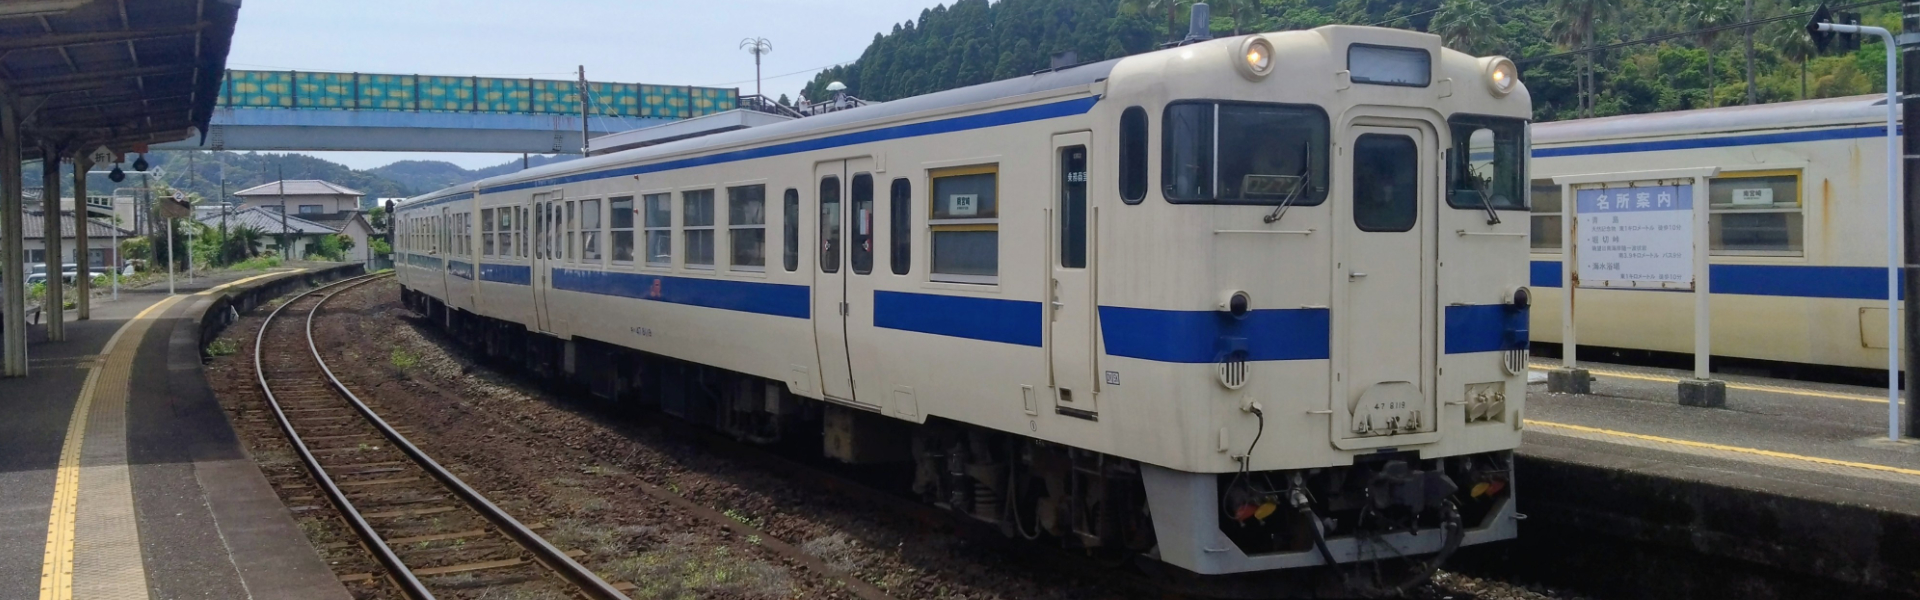
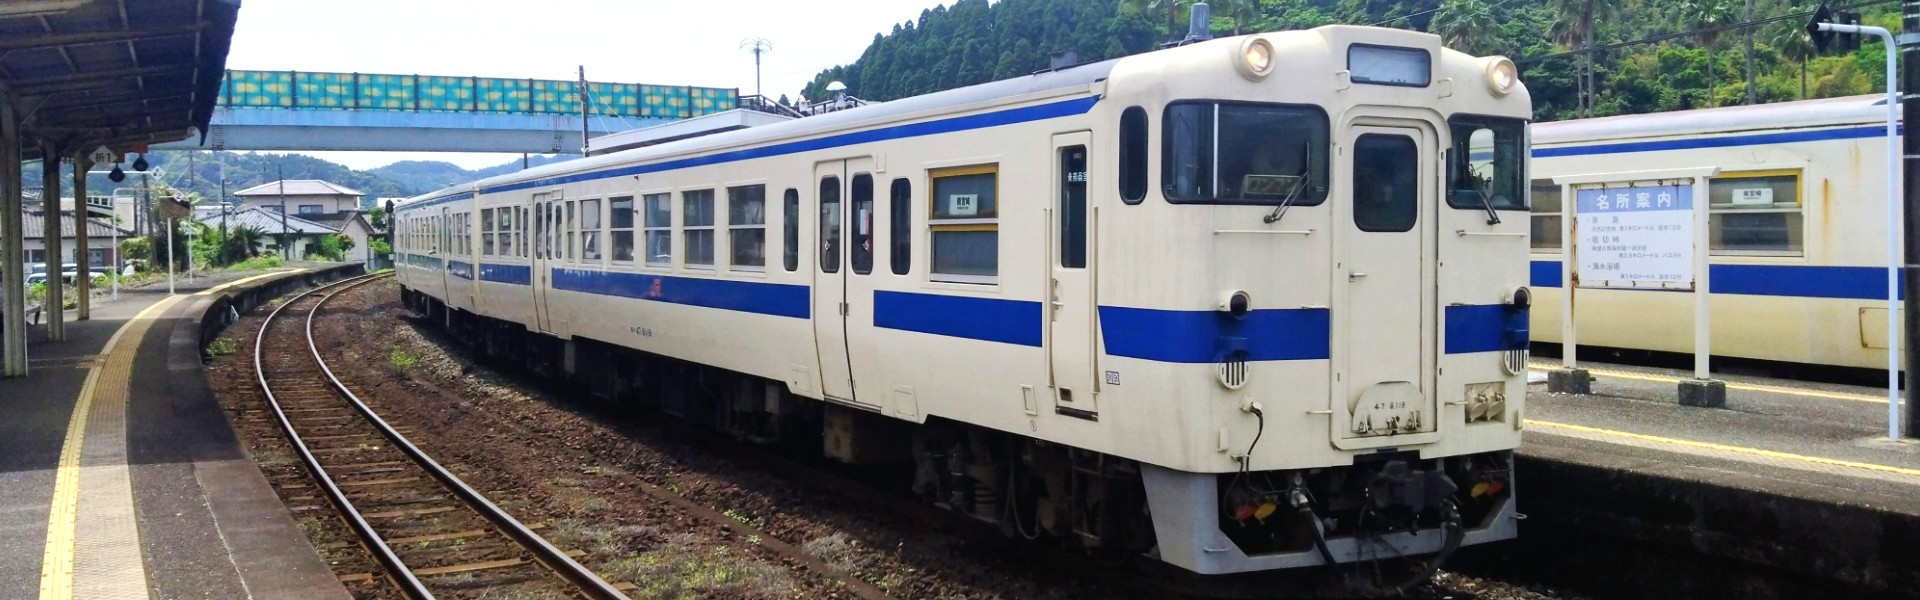
data added

diff --git a/docs/2_minamimiyazaki_c/1991.html b/docs/2_minamimiyazaki_c/1991.html
@@ -1,0 +1,102 @@
+<!DOCTYPE html>
+<html lang="ja">
+
+<head>
+    <meta charset="UTF-8">
+    <meta name="viewport" content="width=device-width, initial-scale=1.0">
+    <title>宮崎時刻表</title>
+    <link href="../css/style.css" rel="stylesheet" type="text/css" media="all">
+</head>
+
+<body>
+    <div style="text-align: center;"><p><b>日南線　南宮崎駅　時刻表</b><br>1996年3月16日改正</p></div>
+<div style="text-align: center;">
+<select onchange="if(this.value) location.href=this.value;">
+<option value="">他の年の時刻表を見る</option>
+<option value="../2_minamimiyazaki_c/1991.html">1991</option>
+<option value="../2_minamimiyazaki_c/2026.html">2026</option>
+</select>
+<br></div><table class="timetable"><thead><tr><th>時</th><th>油津・志布志方面</th></tr></thead><tr>
+<td class="hour">5</td>
+<td class="minutes">
+<span class="time-item "><span class="num">54</span><span class="labels"><span class="type"></span><span class="dest">志布志</span></span></span></td></tr>
+<tr>
+<td class="hour">7</td>
+<td class="minutes">
+<span class="time-item "><span class="num">03</span><span class="labels"><span class="type"></span><span class="dest">志布志</span></span></span></td></tr>
+<tr>
+<td class="hour">8</td>
+<td class="minutes">
+<span class="time-item "><span class="num">04</span><span class="labels"><span class="type"></span><span class="dest">青島</span></span></span></td></tr>
+<tr>
+<td class="hour">9</td>
+<td class="minutes">
+<span class="time-item "><span class="num">12</span><span class="labels"><span class="type"></span><span class="dest">志布志</span></span></span><span class="time-item "><span class="num">31</span><span class="labels"><span class="type"></span><span class="dest">青島</span></span></span></td></tr>
+<tr>
+<td class="hour">10</td>
+<td class="minutes">
+<span class="time-item "><span class="num">07</span><span class="labels"><span class="type"></span><span class="dest">青島</span></span></span><span class="time-item "><span class="num">40</span><span class="labels"><span class="type"></span><span class="dest">志布志</span></span></span></td></tr>
+<tr>
+<td class="hour">12</td>
+<td class="minutes">
+<span class="time-item rapid"><span class="num">15</span><span class="labels"><span class="type">快速日南マリーン号</span><span class="dest">志布志</span></span></span></td></tr>
+<tr>
+<td class="hour">13</td>
+<td class="minutes">
+<span class="time-item "><span class="num">09</span><span class="labels"><span class="type"></span><span class="dest">志布志</span></span></span></td></tr>
+<tr>
+<td class="hour">14</td>
+<td class="minutes">
+<span class="time-item "><span class="num">04</span><span class="labels"><span class="type"></span><span class="dest">青島★</span></span></span></td></tr>
+<tr>
+<td class="hour">15</td>
+<td class="minutes">
+<span class="time-item "><span class="num">07</span><span class="labels"><span class="type"></span><span class="dest">志布志</span></span></span><span class="time-item "><span class="num">28</span><span class="labels"><span class="type"></span><span class="dest">青島★</span></span></span></td></tr>
+<tr>
+<td class="hour">16</td>
+<td class="minutes">
+<span class="time-item "><span class="num">05</span><span class="labels"><span class="type"></span><span class="dest">油津</span></span></span></td></tr>
+<tr>
+<td class="hour">17</td>
+<td class="minutes">
+<span class="time-item "><span class="num">01</span><span class="labels"><span class="type"></span><span class="dest">志布志</span></span></span><span class="time-item "><span class="num">58</span><span class="labels"><span class="type"></span><span class="dest">志布志</span></span></span></td></tr>
+<tr>
+<td class="hour">18</td>
+<td class="minutes">
+<span class="time-item "><span class="num">56</span><span class="labels"><span class="type"></span><span class="dest">志布志</span></span></span></td></tr>
+<tr>
+<td class="hour">20</td>
+<td class="minutes">
+<span class="time-item "><span class="num">24</span><span class="labels"><span class="type"></span><span class="dest">志布志</span></span></span></td></tr>
+<tr>
+<td class="hour">21</td>
+<td class="minutes">
+<span class="time-item "><span class="num">33</span><span class="labels"><span class="type"></span><span class="dest">油津</span></span></span></td></tr>
+<tr><td colspan="2">
+<table class="legends"><thead><tr><th>備考</th><tr></thead><tbody>
+<tr><td>★</td><td>当駅始発</td></tr>
+<tr><td>※</td><td>運転日注意</td></tr>
+<tr><td>(志)</td><td>終点で普通志布志行きに接続</td></tr>
+</tbody></table></td></tr></table>
+     <div style="text-align: center;">
+    <p>
+         <b>掲載駅リスト</b>
+<h4>日豊本線<h4>
+<a href="../1_miyazaki_a/2026.html">宮崎駅 （上り）延岡・佐伯方面</a><br><br>
+<a href="../1_miyazaki_b/2026.html">宮崎駅 （下り）都城・鹿児島中央方面</a><br><br>
+<a href="../1_nobeoka_a/2026.html">延岡駅 （上り）佐伯・大分方面</a><br><br>
+<h4>日南線<h4>
+<a href="../2_minamimiyazaki_c/2026.html">南宮崎駅 （下り）油津・志布志方面</a><br><br>
+<h4>吉都線<h4>
+<a href="../3_kitto/2026.html">都城駅 （下り）小林・吉松方面</a><br><br>
+<h4>高千穂鉄道<h4>
+<a href="../9_nobeoka_c/2006.html">延岡駅 高千穂方面</a><br><br>
+
+    </p>
+    <p>
+        <a href="../index.html">ホームに戻る </a>　
+    </p> 
+    </div>
+</body>
+
+</html>

diff --git a/docs/1_nobeoka_a/1991.html b/docs/1_nobeoka_a/1991.html
@@ -1,0 +1,91 @@
+<!DOCTYPE html>
+<html lang="ja">
+
+<head>
+    <meta charset="UTF-8">
+    <meta name="viewport" content="width=device-width, initial-scale=1.0">
+    <title>宮崎時刻表</title>
+    <link href="../css/style.css" rel="stylesheet" type="text/css" media="all">
+</head>
+
+<body>
+    <div style="text-align: center;"><p><b>日豊本線　延岡駅　時刻表</b><br>1991年3月16日改正</p></div>
+<div style="text-align: center;">
+<select onchange="if(this.value) location.href=this.value;">
+<option value="">他の年の時刻表を見る</option>
+<option value="../1_nobeoka_a/1991.html">1991</option>
+<option value="../1_nobeoka_a/2026.html">2026</option>
+</select>
+<br></div><table class="timetable"><thead><tr><th>時</th><th>佐伯・大分方面</th></tr></thead><tr>
+<td class="hour">6</td>
+<td class="minutes">
+<span class="time-item "><span class="num">10</span><span class="labels"><span class="type"></span><span class="dest">日出</span></span></span><span class="time-item express"><span class="num">32</span><span class="labels"><span class="type">にちりん10</span><span class="dest">博多</span></span></span></td></tr>
+<tr>
+<td class="hour">7</td>
+<td class="minutes">
+<span class="time-item express"><span class="num">50</span><span class="labels"><span class="type">にちりん16</span><span class="dest">小倉</span></span></span><span class="time-item "><span class="num">53</span><span class="labels"><span class="type"></span><span class="dest">杵築</span></span></span></td></tr>
+<tr>
+<td class="hour">9</td>
+<td class="minutes">
+<span class="time-item express"><span class="num">53</span><span class="labels"><span class="type">にちりん24</span><span class="dest">小倉</span></span></span></td></tr>
+<tr>
+<td class="hour">11</td>
+<td class="minutes">
+<span class="time-item express"><span class="num">00</span><span class="labels"><span class="type">にちりん28</span><span class="dest">博多</span></span></span></td></tr>
+<tr>
+<td class="hour">12</td>
+<td class="minutes">
+<span class="time-item express"><span class="num">59</span><span class="labels"><span class="type">にちりん36</span><span class="dest">博多</span></span></span></td></tr>
+<tr>
+<td class="hour">13</td>
+<td class="minutes">
+<span class="time-item "><span class="num">26</span><span class="labels"><span class="type"></span><span class="dest">大分★</span></span></span></td></tr>
+<tr>
+<td class="hour">14</td>
+<td class="minutes">
+<span class="time-item express"><span class="num">45</span><span class="labels"><span class="type">富士</span><span class="dest">東京</span></span></span></td></tr>
+<tr>
+<td class="hour">15</td>
+<td class="minutes">
+<span class="time-item express"><span class="num">50</span><span class="labels"><span class="type">にちりん46</span><span class="dest">博多</span></span></span></td></tr>
+<tr>
+<td class="hour">16</td>
+<td class="minutes">
+<span class="time-item "><span class="num">28</span><span class="labels"><span class="type"></span><span class="dest">中山香</span></span></span></td></tr>
+<tr>
+<td class="hour">18</td>
+<td class="minutes">
+<span class="time-item express"><span class="num">10</span><span class="labels"><span class="type">にちりん54</span><span class="dest">博多</span></span></span><span class="time-item express"><span class="num">56</span><span class="labels"><span class="type">彗星</span><span class="dest">新大阪</span></span></span></td></tr>
+<tr>
+<td class="hour">19</td>
+<td class="minutes">
+<span class="time-item "><span class="num">04</span><span class="labels"><span class="type"></span><span class="dest">日出</span></span></span><span class="time-item express"><span class="num">53</span><span class="labels"><span class="type">にちりん56</span><span class="dest">小倉</span></span></span></td></tr>
+<tr>
+<td class="hour">0</td>
+<td class="minutes">
+<span class="time-item express"><span class="num">41</span><span class="labels"><span class="type">急行日南</span><span class="dest">博多</span></span></span></td></tr>
+<tr><td colspan="2">
+<table class="legends"><thead><tr><th>備考</th><tr></thead><tbody>
+</tbody></table></td></tr></table>
+     <div style="text-align: center;">
+    <p>
+         <b>掲載駅リスト</b>
+<h4>日豊本線<h4>
+<a href="../1_miyazaki_a/2026.html">宮崎駅 （上り）延岡・佐伯方面</a><br><br>
+<a href="../1_miyazaki_b/2026.html">宮崎駅 （下り）都城・鹿児島中央方面</a><br><br>
+<a href="../1_nobeoka_a/2026.html">延岡駅 （上り）佐伯・大分方面</a><br><br>
+<h4>日南線<h4>
+<a href="../2_minamimiyazaki_c/2026.html">南宮崎駅 （下り）油津・志布志方面</a><br><br>
+<h4>吉都線<h4>
+<a href="../3_kitto/2026.html">都城駅 （下り）小林・吉松方面</a><br><br>
+<h4>高千穂鉄道<h4>
+<a href="../9_nobeoka_c/2006.html">延岡駅 高千穂方面</a><br><br>
+
+    </p>
+    <p>
+        <a href="../index.html">ホームに戻る </a>　
+    </p> 
+    </div>
+</body>
+
+</html>

diff --git a/docs/9_nobeoka_c/1991.html b/docs/9_nobeoka_c/1991.html
@@ -1,0 +1,96 @@
+<!DOCTYPE html>
+<html lang="ja">
+
+<head>
+    <meta charset="UTF-8">
+    <meta name="viewport" content="width=device-width, initial-scale=1.0">
+    <title>宮崎時刻表</title>
+    <link href="../css/style.css" rel="stylesheet" type="text/css" media="all">
+</head>
+
+<body>
+    <div style="text-align: center;"><p><b>高千穂鉄道　延岡駅　時刻表</b><br>1991年3月16日現在改正</p></div>
+<div style="text-align: center;">
+<select onchange="if(this.value) location.href=this.value;">
+<option value="">他の年の時刻表を見る</option>
+<option value="../9_nobeoka_c/1991.html">1991</option>
+<option value="../9_nobeoka_c/2006.html">2006</option>
+</select>
+<br></div><table class="timetable"><thead><tr><th>時</th><th>高千穂方面</th></tr></thead><tr>
+<td class="hour">6</td>
+<td class="minutes">
+<span class="time-item "><span class="num">30</span><span class="labels"><span class="type"></span><span class="dest">高千穂</span></span></span></td></tr>
+<tr>
+<td class="hour">7</td>
+<td class="minutes">
+<span class="time-item rapid"><span class="num">50</span><span class="labels"><span class="type">快速</span><span class="dest">高千穂</span></span></span></td></tr>
+<tr>
+<td class="hour">8</td>
+<td class="minutes">
+<span class="time-item "><span class="num">52</span><span class="labels"><span class="type"></span><span class="dest">高千穂</span></span></span></td></tr>
+<tr>
+<td class="hour">10</td>
+<td class="minutes">
+<span class="time-item "><span class="num">04</span><span class="labels"><span class="type"></span><span class="dest">高千穂</span></span></span></td></tr>
+<tr>
+<td class="hour">11</td>
+<td class="minutes">
+<span class="time-item "><span class="num">10</span><span class="labels"><span class="type"></span><span class="dest">高千穂</span></span></span></td></tr>
+<tr>
+<td class="hour">12</td>
+<td class="minutes">
+<span class="time-item rapid"><span class="num">35</span><span class="labels"><span class="type">快速</span><span class="dest">高千穂</span></span></span></td></tr>
+<tr>
+<td class="hour">13</td>
+<td class="minutes">
+<span class="time-item "><span class="num">39</span><span class="labels"><span class="type"></span><span class="dest">高千穂</span></span></span></td></tr>
+<tr>
+<td class="hour">14</td>
+<td class="minutes">
+<span class="time-item "><span class="num">45</span><span class="labels"><span class="type"></span><span class="dest">高千穂</span></span></span></td></tr>
+<tr>
+<td class="hour">15</td>
+<td class="minutes">
+<span class="time-item "><span class="num">56</span><span class="labels"><span class="type"></span><span class="dest">高千穂</span></span></span></td></tr>
+<tr>
+<td class="hour">17</td>
+<td class="minutes">
+<span class="time-item "><span class="num">07</span><span class="labels"><span class="type"></span><span class="dest">高千穂</span></span></span></td></tr>
+<tr>
+<td class="hour">18</td>
+<td class="minutes">
+<span class="time-item "><span class="num">13</span><span class="labels"><span class="type"></span><span class="dest">高千穂</span></span></span></td></tr>
+<tr>
+<td class="hour">19</td>
+<td class="minutes">
+<span class="time-item "><span class="num">27</span><span class="labels"><span class="type"></span><span class="dest">高千穂</span></span></span></td></tr>
+<tr>
+<td class="hour">20</td>
+<td class="minutes">
+<span class="time-item "><span class="num">38</span><span class="labels"><span class="type"></span><span class="dest">高千穂</span></span></span></td></tr>
+<tr><td colspan="2">
+<table class="legends"><thead><tr><th>備考</th><tr></thead><tbody>
+<tr><td>注記</td><td>快速の停車駅は、西延岡、曽木、川水流、上崎、槇峰、日向八戸、高千穂。</td></tr>
+</tbody></table></td></tr></table>
+     <div style="text-align: center;">
+    <p>
+         <b>掲載駅リスト</b>
+<h4>日豊本線<h4>
+<a href="../1_miyazaki_a/2026.html">宮崎駅 （上り）延岡・佐伯方面</a><br><br>
+<a href="../1_miyazaki_b/2026.html">宮崎駅 （下り）都城・鹿児島中央方面</a><br><br>
+<a href="../1_nobeoka_a/2026.html">延岡駅 （上り）佐伯・大分方面</a><br><br>
+<h4>日南線<h4>
+<a href="../2_minamimiyazaki_c/2026.html">南宮崎駅 （下り）油津・志布志方面</a><br><br>
+<h4>吉都線<h4>
+<a href="../3_kitto/2026.html">都城駅 （下り）小林・吉松方面</a><br><br>
+<h4>高千穂鉄道<h4>
+<a href="../9_nobeoka_c/2006.html">延岡駅 高千穂方面</a><br><br>
+
+    </p>
+    <p>
+        <a href="../index.html">ホームに戻る </a>　
+    </p> 
+    </div>
+</body>
+
+</html>

diff --git a/docs/2_minamimiyazaki_c/2026.html b/docs/2_minamimiyazaki_c/2026.html
@@ -13,6 +13,7 @@
 <div style="text-align: center;">
 <select onchange="if(this.value) location.href=this.value;">
 <option value="">他の年の時刻表を見る</option>
+<option value="../2_minamimiyazaki_c/1991.html">1991</option>
 <option value="../2_minamimiyazaki_c/2026.html">2026</option>
 </select>
 <br></div><table class="timetable"><thead><tr><th>時</th><th>油津・志布志方面</th></tr></thead><tr>

diff --git a/docs/1_nobeoka_a/2026.html b/docs/1_nobeoka_a/2026.html
@@ -13,6 +13,7 @@
 <div style="text-align: center;">
 <select onchange="if(this.value) location.href=this.value;">
 <option value="">他の年の時刻表を見る</option>
+<option value="../1_nobeoka_a/1991.html">1991</option>
 <option value="../1_nobeoka_a/2026.html">2026</option>
 </select>
 <br></div><table class="timetable"><thead><tr><th>時</th><th>佐伯・大分方面</th></tr></thead><tr>

diff --git a/docs/9_nobeoka_c/2006.html b/docs/9_nobeoka_c/2006.html
@@ -13,6 +13,7 @@
 <div style="text-align: center;">
 <select onchange="if(this.value) location.href=this.value;">
 <option value="">他の年の時刻表を見る</option>
+<option value="../9_nobeoka_c/1991.html">1991</option>
 <option value="../9_nobeoka_c/2006.html">2006</option>
 </select>
 <br></div><table class="timetable"><thead><tr><th>時</th><th>高千穂方面</th></tr></thead><tr>
